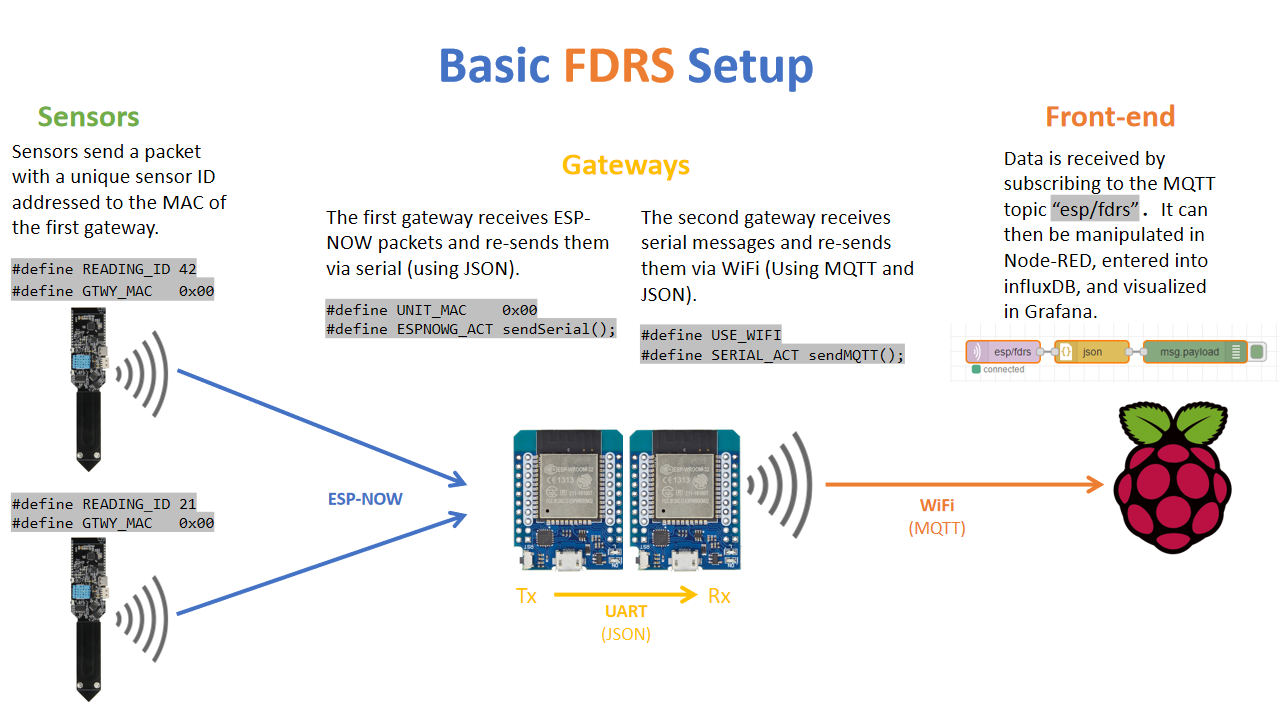
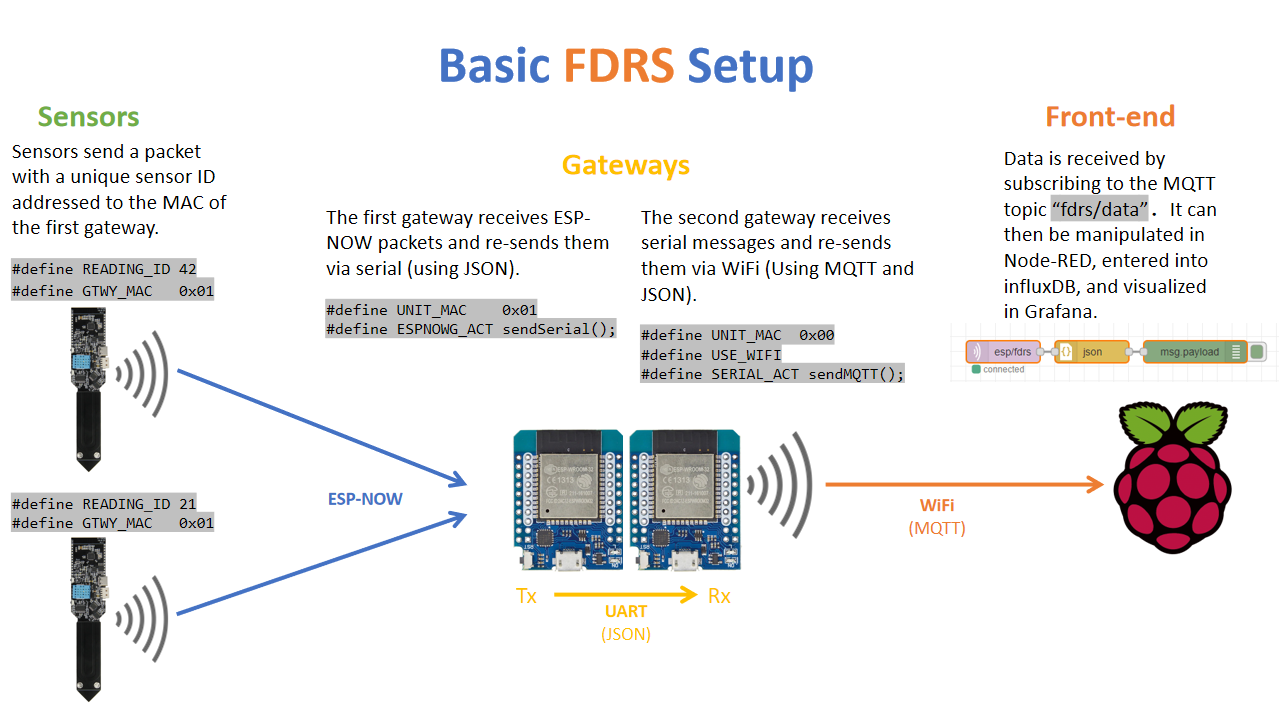
updated graphics

Changed region(s): [[0.5, 0.4278, 0.7188, 0.55], [0.8125, 0.275, 0.9688, 0.3056]]

diff --git a/Examples/5_MQTT_Gateway/fdrs_config.h b/Examples/5_MQTT_Gateway/fdrs_config.h
@@ -3,12 +3,13 @@
 //  GATEWAY 2.000 Configuration
 
 //#include <fdrs_globals.h> //Uncomment if you install the globals file
-#define DEBUG  //Enable debugging information over serial
+#define DEBUG             //Enable debugging information over serial
 
-#define UNIT_MAC     0x00  // The address of this gateway
+#define UNIT_MAC     0x05  // The address of this gateway
 
 //Actions -- Define what happens when a packet arrives at each interface:
-//Current function options are: sendESPNOW(MAC), sendSerial(), sendMQTT(), bufferESPNOW(interface), bufferSerial(), and bufferLoRa(interface).
+//Current function options are: sendESPNOW(MAC), sendSerial(), sendMQTT(),
+// bufferLoRa(interface), bufferESPNOW(interface), bufferSerial(), and bufferMQTT().
 
 #define ESPNOWG_ACT    
 #define SERIAL_ACT     sendMQTT();    
@@ -17,10 +18,6 @@
 
 //#define USE_LORA
 #define USE_WIFI      //Used only for MQTT gateway
-
-#define WIFI_SSID   "Your SSID"
-#define WIFI_PASS   "Your Password"
-#define MQTT_ADDR   "192.168.0.8"
 
 // Peer addresses
 #define ESPNOW1_PEER  0x0E  // ESPNOW1 Address 
@@ -66,7 +63,11 @@
 #define LED_PIN    32
 #define NUM_LEDS    4
 
+//WiFi and MQTT Credentials -- Needed only for MQTT gateway
+#define WIFI_SSID   "Your SSID"  
+#define WIFI_PASS   "Your Password"
+#define MQTT_ADDR   "192.168.0.8"
 // MQTT Topics
-#define TOPIC_DATA "FDRS/DATA"
-#define TOPIC_STATUS "FDRS/STATUS"
-#define TOPIC_COMMAND "FDRS/COMMAND" 
+#define TOPIC_DATA "fdrs/data"
+#define TOPIC_STATUS "fdrs/status"
+#define TOPIC_COMMAND "fdrs/command" 

diff --git a/Examples/3_ESPNOW_Gateway/fdrs_config.h b/Examples/3_ESPNOW_Gateway/fdrs_config.h
@@ -35,9 +35,9 @@
 #define WIFI_PASS   "Your Password"
 #define MQTT_ADDR   "192.168.0.8"
 // MQTT Topics
-#define TOPIC_DATA "FDRS/DATA"
-#define TOPIC_STATUS "FDRS/STATUS"
-#define TOPIC_COMMAND "FDRS/COMMAND" 
+#define TOPIC_DATA "fdrs/data"
+#define TOPIC_STATUS "fdrs/status"
+#define TOPIC_COMMAND "fdrs/command" 
 
 //Pins for UART data interface (ESP32 only)
 #define RXD2 14

diff --git a/Examples/4_UART_Gateway/fdrs_config.h b/Examples/4_UART_Gateway/fdrs_config.h
@@ -35,9 +35,9 @@
 #define WIFI_PASS   "Your Password"
 #define MQTT_ADDR   "192.168.0.8"
 // MQTT Topics
-#define TOPIC_DATA "FDRS/DATA"
-#define TOPIC_STATUS "FDRS/STATUS"
-#define TOPIC_COMMAND "FDRS/COMMAND" 
+#define TOPIC_DATA "fdrs/data"
+#define TOPIC_STATUS "fdrs/status"
+#define TOPIC_COMMAND "fdrs/command" 
 
 //Pins for UART data interface (ESP32 only)
 #define RXD2 14
